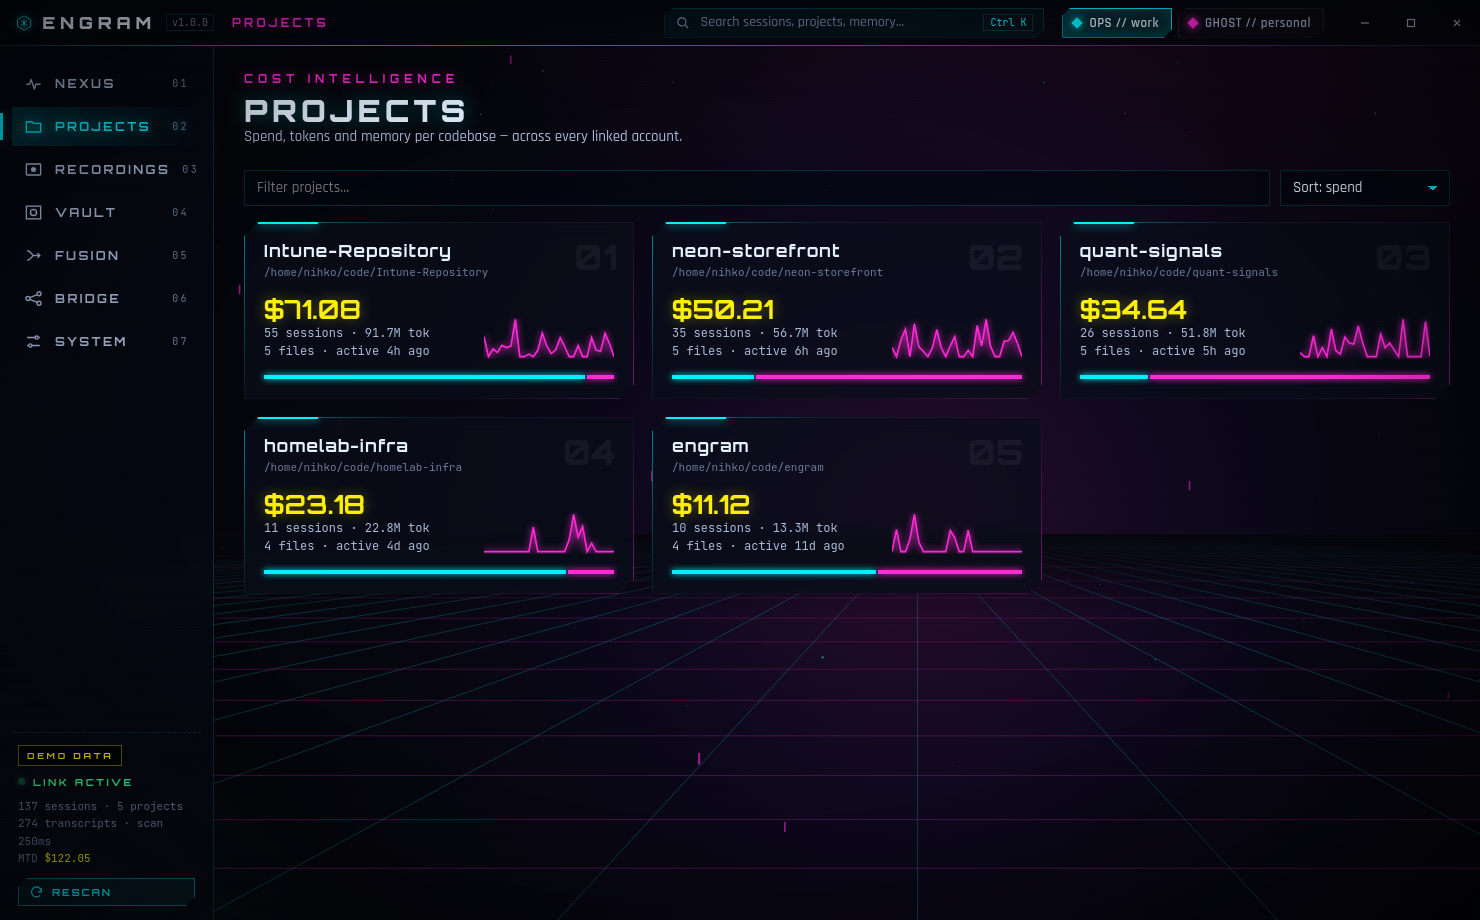
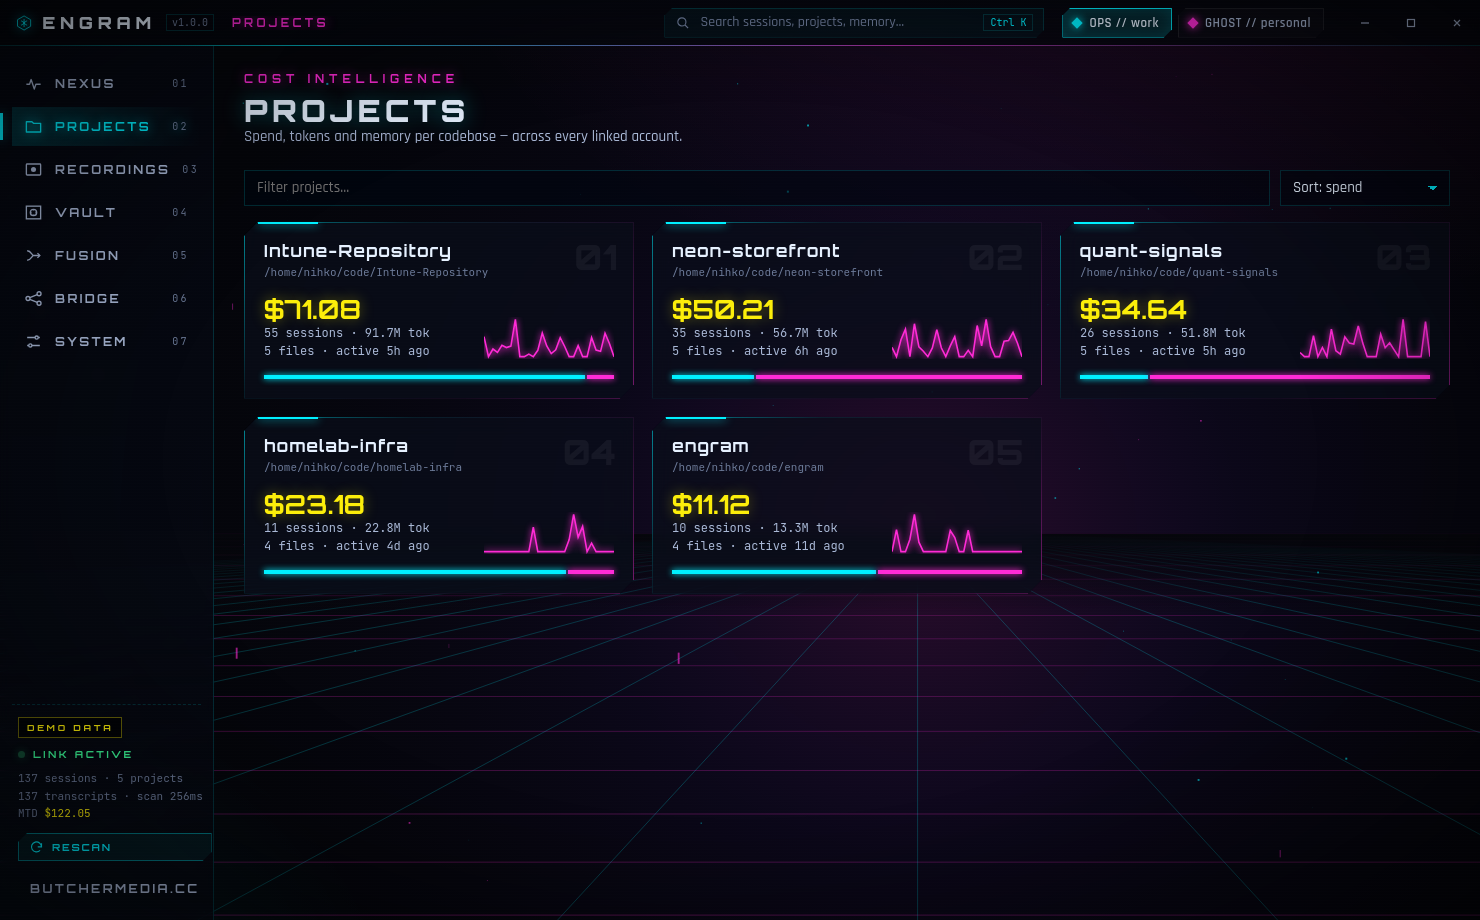
ENGRAM: link back to butchermedia.cc
Adds a BUTCHERMEDIA.CC credit at the foot of the sidebar and a "Built by"
line in SYSTEM → About (both open in the default browser), plus credits in
the README and the installer license page. E2E asserts both links.

Claude-Session: https://claude.ai/code/session_01YSS2tELSeV2VmKyMxbPWab

diff --git a/engram/src/renderer/styles.css b/engram/src/renderer/styles.css
@@ -149,6 +149,8 @@ body[data-effects="off"] *, body[data-effects="off"] *::before, body[data-effect
 .live { display: flex; align-items: center; gap: 8px; font: 700 10px var(--f-display); letter-spacing: .25em; color: var(--green); }
 .live i { width: 7px; height: 7px; border-radius: 50%; background: var(--green); box-shadow: 0 0 10px var(--green); animation: pulse 1.6s infinite; }
 @keyframes pulse { 50% { opacity: .25; } }
+.credit { font: 700 9px var(--f-display); letter-spacing: .3em; color: var(--muted); text-decoration: none; text-align: center; padding: 2px 0; transition: color .2s, text-shadow .2s; }
+.credit:hover { color: var(--magenta); text-shadow: var(--glow-m); }
 .rail-stat { font: 11px/1.6 var(--f-mono); color: var(--muted); }
 
 /* ---------- main ---------- */

diff --git a/engram/src/renderer/views.js b/engram/src/renderer/views.js
@@ -693,6 +693,7 @@ async function settings(root) {
       </div>
       <div class="panel span-2" style="--pc:var(--magenta)">${panelHead('03', 'ABOUT')}
         <p style="margin:0">ENGRAM ${esc(init.version)} · Claude command center. Reads Claude Code transcripts locally — nothing leaves this machine. Shortcuts: <span class="mono">Ctrl+K</span> palette · <span class="mono">Ctrl+R</span> rescan · <span class="mono">Ctrl+S</span> save engram.</p>
+        <p style="margin:10px 0 0">Built by <a href="https://butchermedia.cc" target="_blank" rel="noopener">butchermedia.cc</a></p>
       </div>
     </div>`;
   const save = async (patch) => { state.settings = await call(api.settings.update, patch); document.body.dataset.effects = state.settings.effects; };

diff --git a/engram/test/e2e/screenshots.js b/engram/test/e2e/screenshots.js
@@ -77,6 +77,8 @@ const wait = (ms) => new Promise((r) => setTimeout(r, ms));
   await shot('09-bridge-synced');
 
   await nav('settings');
+  assert.equal(await win.getAttribute('.credit', 'href'), 'https://butchermedia.cc', 'rail credit links to butchermedia.cc');
+  assert.ok(await win.$('.settings-grid a[href="https://butchermedia.cc"]'), 'About links to butchermedia.cc');
   await shot('10-system');
 
   await nav('nexus');

diff --git a/engram/src/renderer/index.html b/engram/src/renderer/index.html
@@ -65,6 +65,7 @@
       <div class="live"><i></i><span id="live-label">LINK ACTIVE</span></div>
       <div class="rail-stat" id="rail-stat">—</div>
       <button class="btn ghost small" id="rescan"><svg><use href="#i-refresh"/></svg>RESCAN</button>
+      <a class="credit" href="https://butchermedia.cc" target="_blank" rel="noopener">BUTCHERMEDIA.CC</a>
     </div>
   </nav>
 

diff --git a/engram/README.md b/engram/README.md
@@ -112,3 +112,7 @@ All screenshots use generated demo data.
 | ![Replay](docs/screenshots/05-replay.png) | ![Fusion](docs/screenshots/06-fusion.png) |
 | ![Vault](docs/screenshots/07-vault.png) | ![Bridge](docs/screenshots/08-bridge.png) |
 | ![System](docs/screenshots/10-system.png) | ![Palette](docs/screenshots/11-command-palette.png) |
+
+---
+
+Built by [butchermedia.cc](https://butchermedia.cc)
